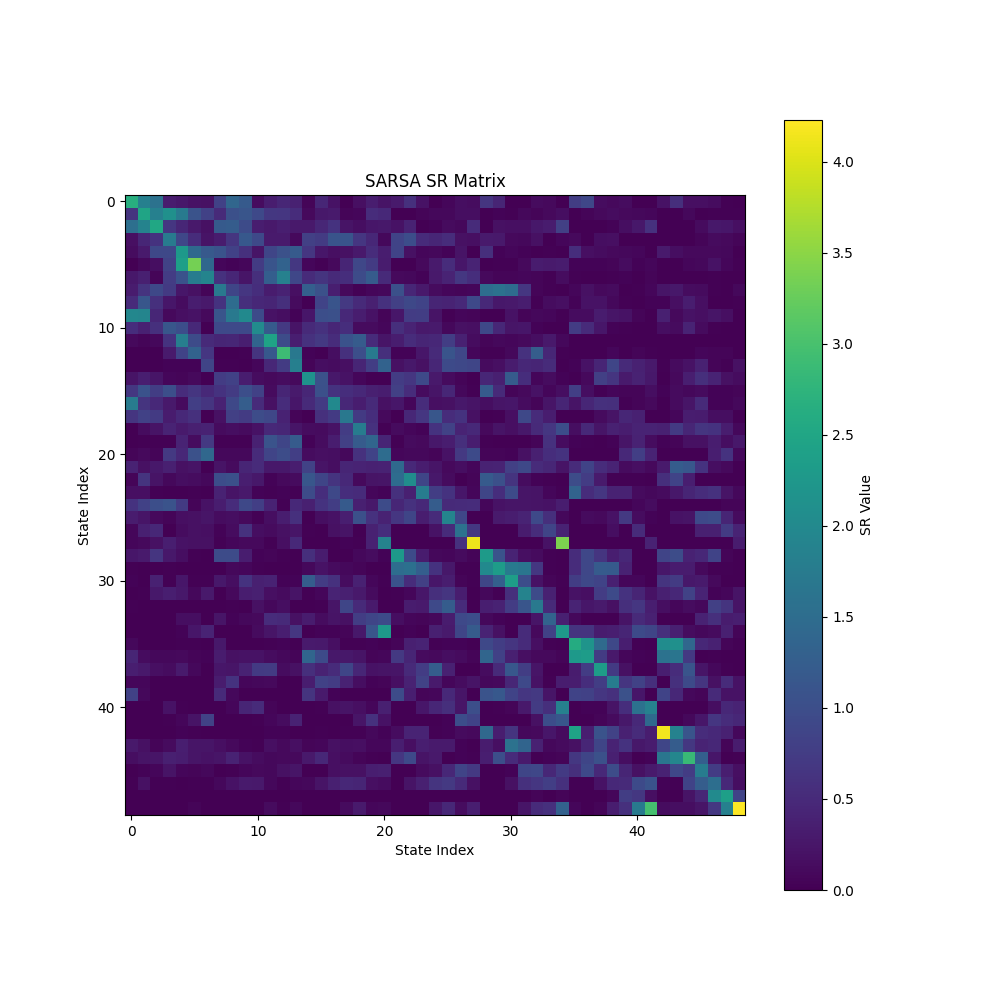
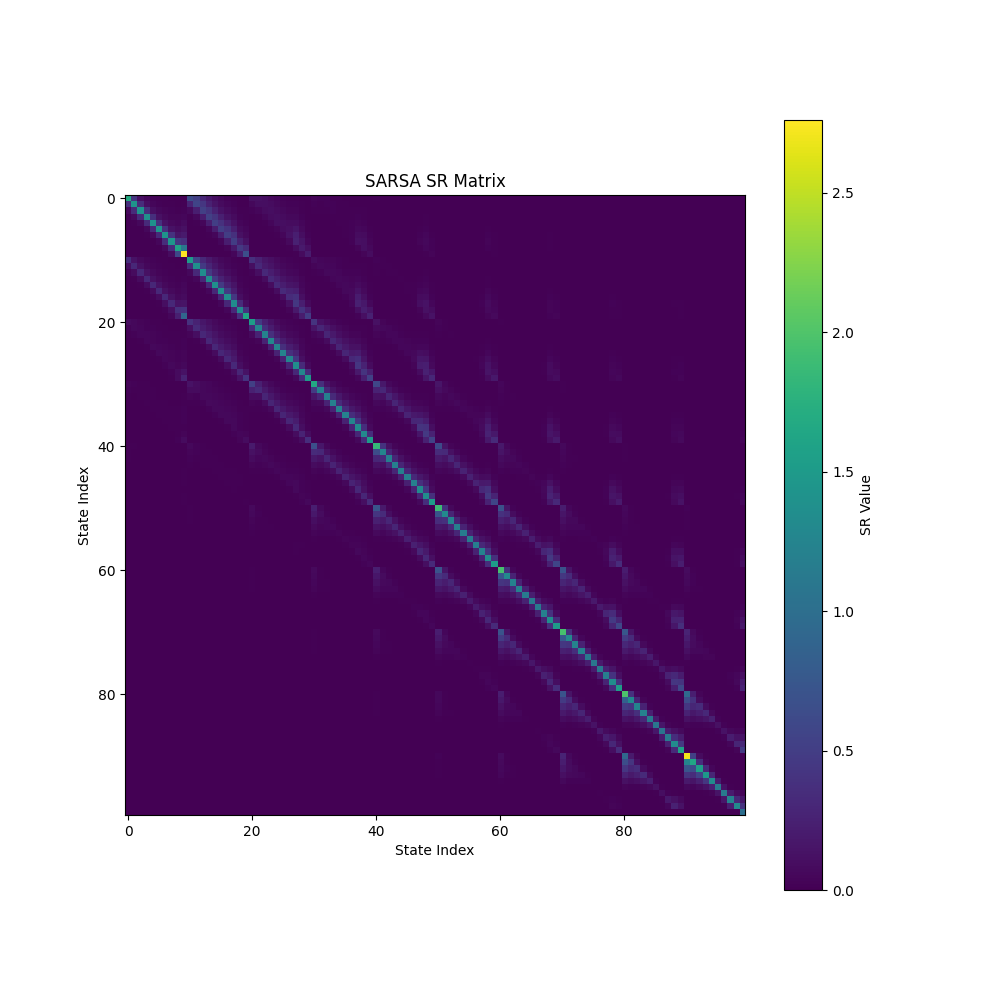
big run

diff --git a/SRGoalSlice.py b/SRGoalSlice.py
@@ -537,7 +537,7 @@ def run_sarsa(train_episode_length,test_episode_length,episodes,gamma,lr,initial
         #         break
         # SARSA_test_lengths.append(j)
         
-    nbins = 7  # value for number of bins
+    nbins = grid_size  # value for number of bins
     scorer = GridScorer(nbins)
 
     # Get grid scores and spatial autocorrelation (SAC)
@@ -751,7 +751,7 @@ def run_wvf(train_episode_length,test_episode_length,episodes,gamma,lr,initial_t
 
     # print("\nWVF training completed.")
     
-    nbins = 7  # value for number of bins
+    nbins = grid_size  # value for number of bins
     wvf_scorer = GridScorer(nbins)
 
     # Get grid scores and spatial autocorrelation (SAC)
@@ -785,7 +785,7 @@ def experiment_sarsa_wvf(train_episode_length,test_episode_length,episodes,gamma
     
     # number of exepriments = goal slices size
     # The list that containt the number of goal sizes
-    goal_sizes = [15, 20, 25, 30, 35, 40, 45, 49]  # Example goal sizes (can be changed)
+    goal_sizes = [50, 75, 100, 125, 150, 175, 200, 225]  # Example goal sizes (can be changed)
 
     # Initialize empty lists to store results
     results = []
@@ -819,7 +819,7 @@ def experiment_sarsa_wvf(train_episode_length,test_episode_length,episodes,gamma
 cmap = plt.cm.viridis
 cmap.set_bad(color='white')
 
-grid_size = 7
+grid_size = 15
 pattern = "empty"
 env = SimpleGrid(grid_size, block_pattern=pattern, obs_mode="index")
 env.reset(agent_pos=[0, 0], goal_pos=[0, grid_size - 1])
@@ -835,13 +835,14 @@ train_episode_length = 500
 test_episode_length = 500
 
 # number of episodes per experiment
-episodes = 10000
+episodes = 50000
 
 # parameters for agent
-gamme = 0.8
+gamma = 0.8
 # gamma = 0.95
-lr = 0.01
-# lr = 1
+lr = 0.5
+# lr = 0.1 grid cells
+# lr = 1 gerauds
 initial_train_epsilon = 0.6
 # initial_train_epsilon = 1
 epsilon_decay = 0.995
